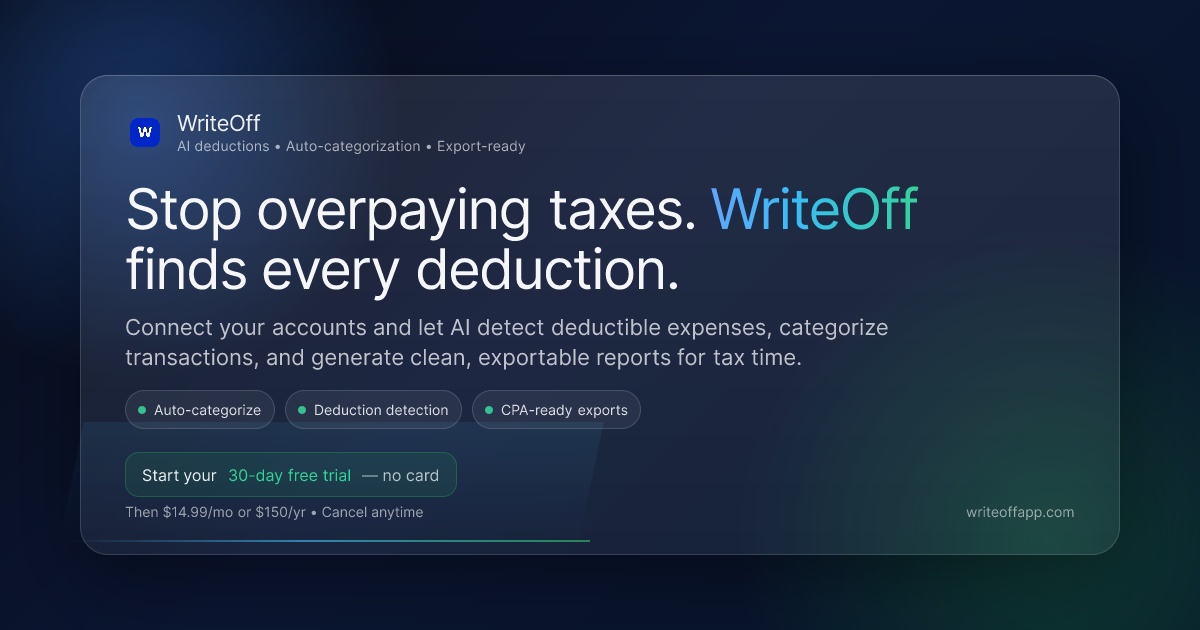
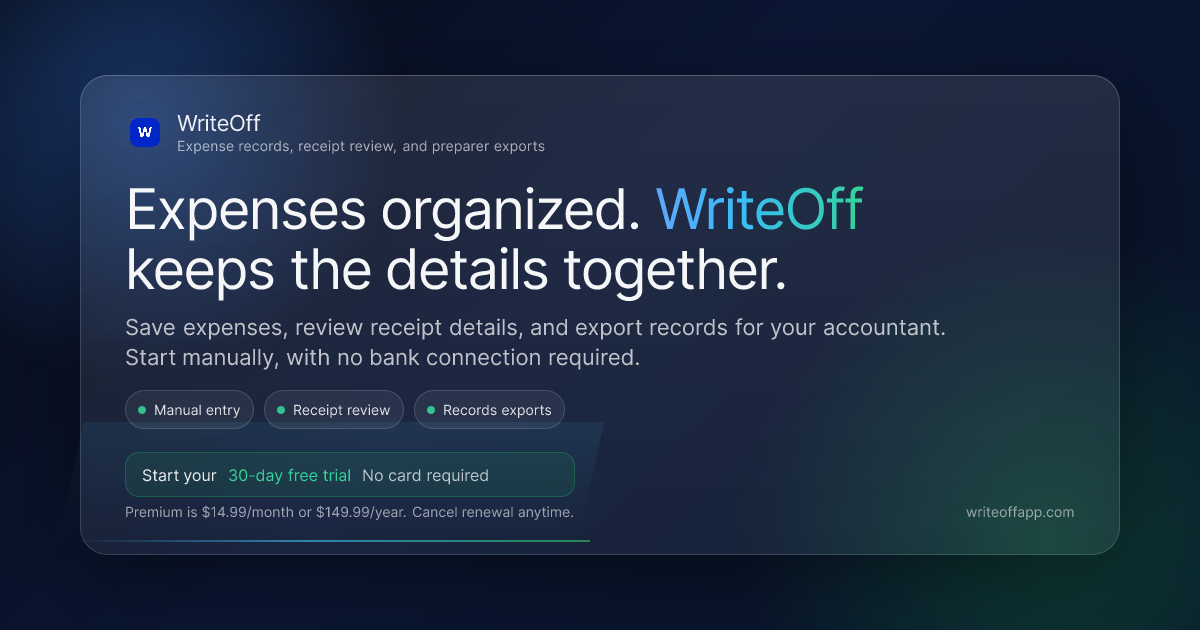
fix(marketing): replace stale deduction social image

diff --git a/app/opengraph-image.tsx b/app/opengraph-image.tsx
@@ -191,7 +191,7 @@ export default async function Image() {
                     letterSpacing: "0.01em",
                   }}
                 >
-                  Expense records • Receipt review • Preparer exports
+                  Expense records, receipt review, and preparer exports
                 </span>
               </div>
             </div>
@@ -306,11 +306,11 @@ export default async function Image() {
               >
                 Start your <span style={{ color: "#34D399" }}>{PRODUCT_ACCESS.trialDays}-day free trial</span>
                 <span style={{ color: "rgba(255,255,255,0.70)", fontWeight: 600 }}>
-                  - no card
+                  No card required
                 </span>
               </div>
-              <div style={{ fontSize: 14, color: "rgba(255,255,255,0.58)" }}>
-                Then ${PREMIUM_MONTHLY_PRICE}/mo or ${PREMIUM_YEARLY_PRICE}/yr • Cancel anytime
+              <div style={{ display: "flex", fontSize: 14, color: "rgba(255,255,255,0.58)" }}>
+                Premium is ${PREMIUM_MONTHLY_PRICE}/month or ${PREMIUM_YEARLY_PRICE}/year. Cancel renewal anytime.
               </div>
             </div>
 
